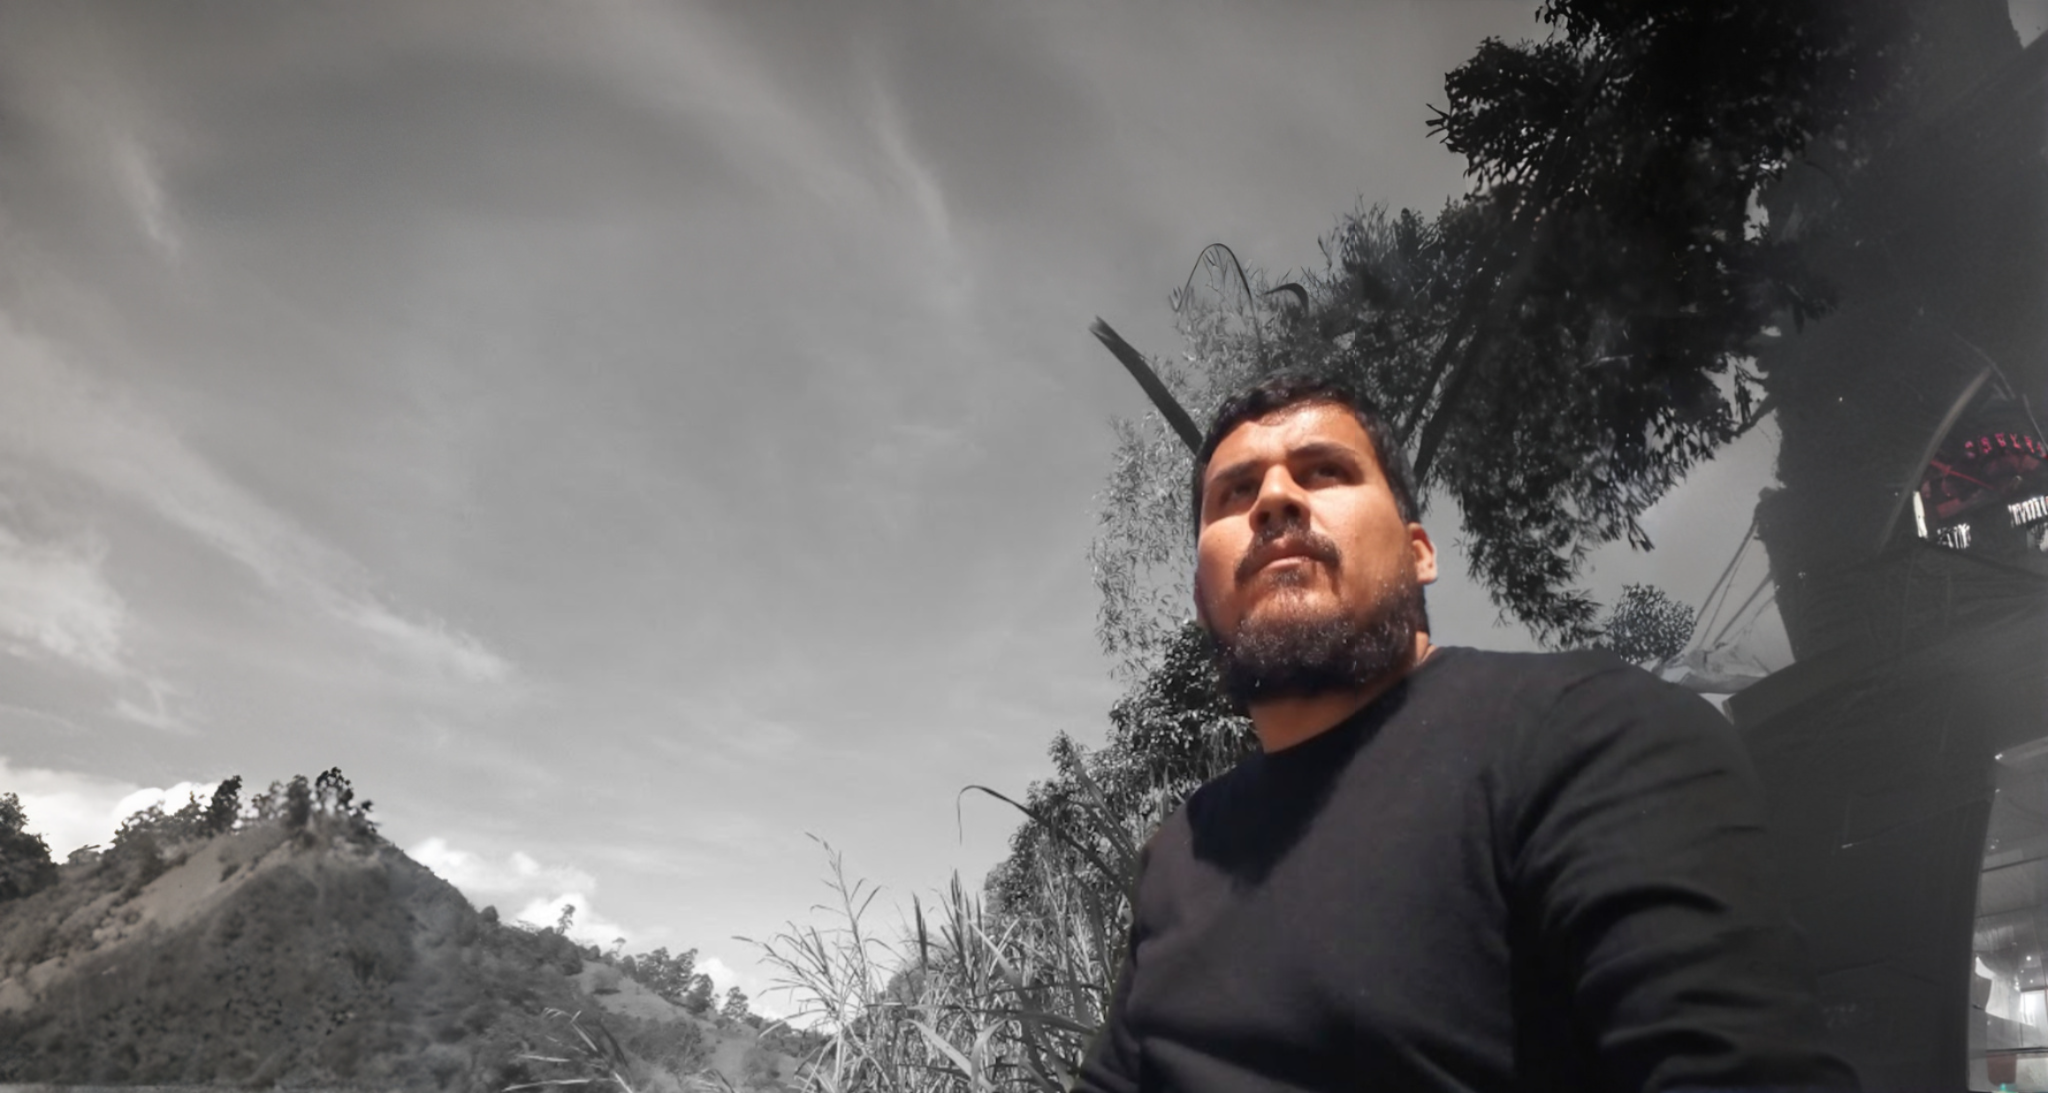
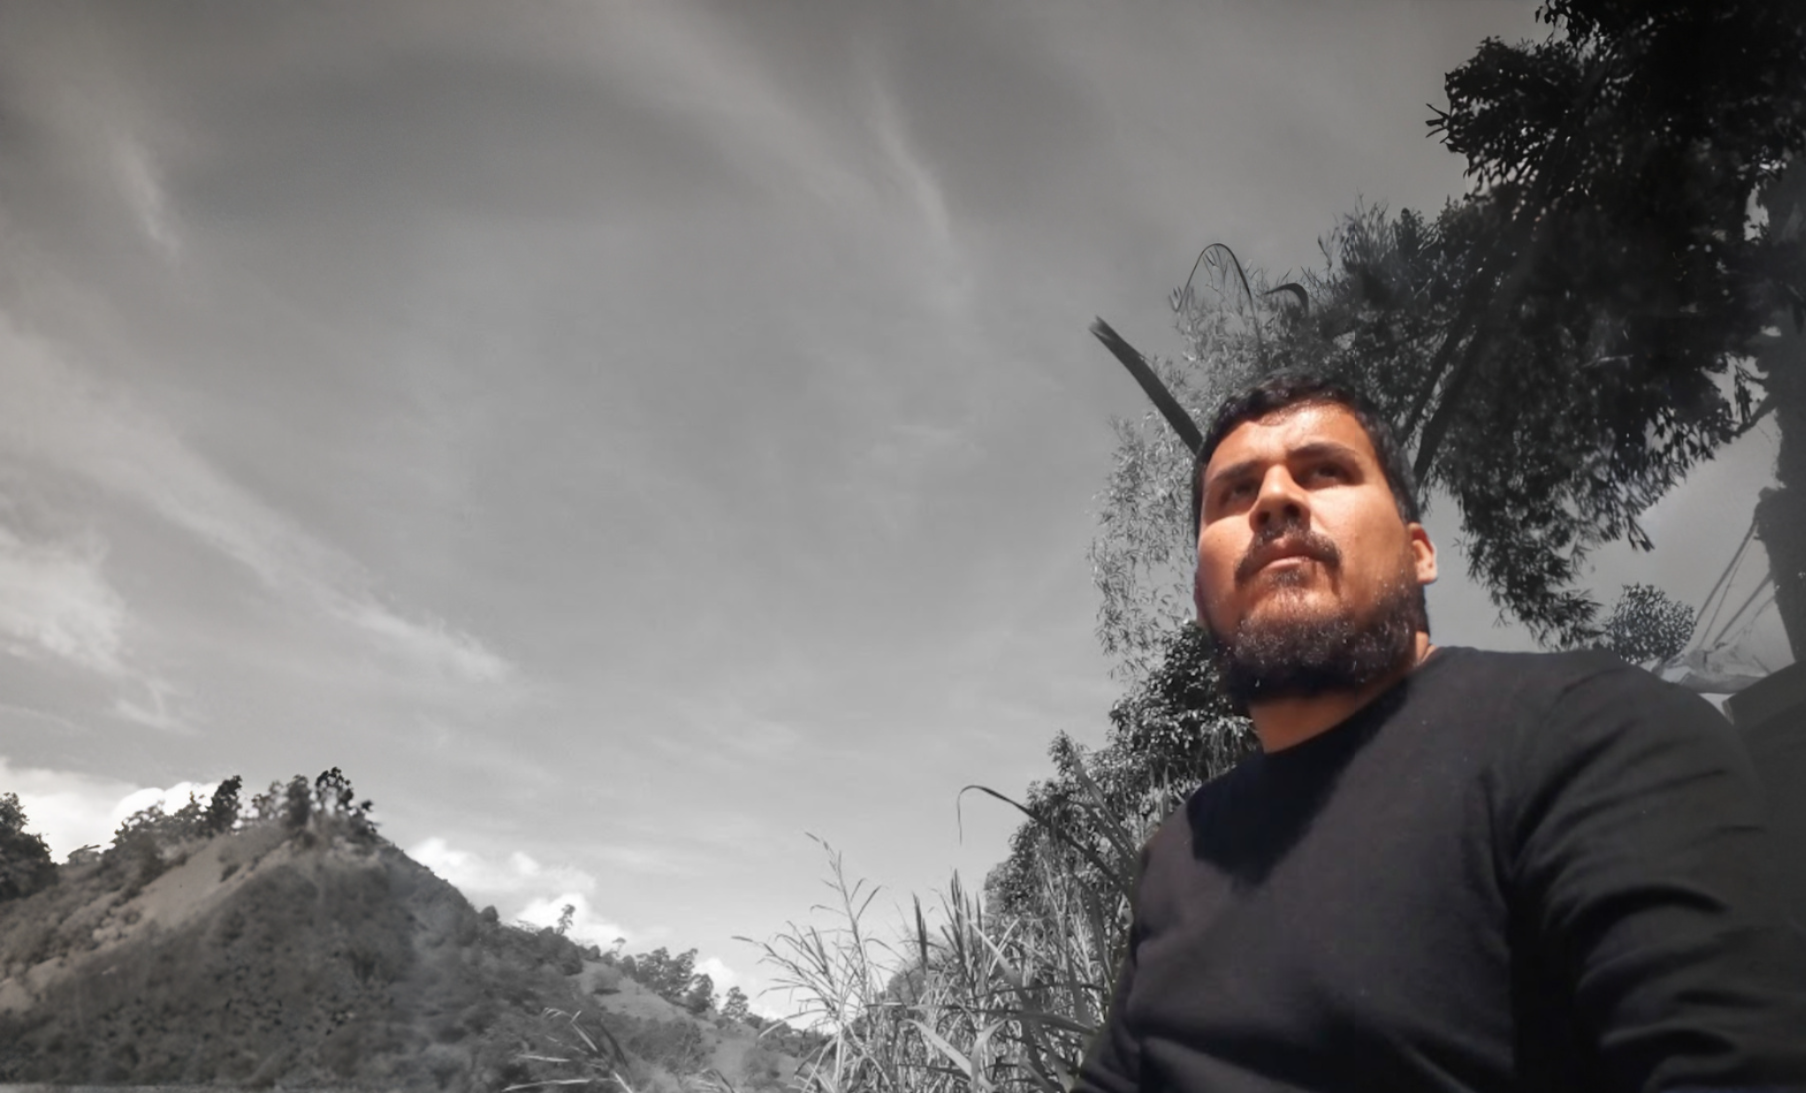
Enhance Hero component styling and layout; update background effects across multiple components
- Updated Hero component to include a new background image with improved layout and text styling.
- Enhanced visual effects in Skills and Social components with backdrop filters and semi-transparent backgrounds.
- Adjusted base styles for a consistent background across the application.

diff --git a/src/components/Hero/Hero.scss b/src/components/Hero/Hero.scss
@@ -2,42 +2,66 @@
 
 .hero {
   min-height: 100vh;
+  position: relative;
   display: flex;
   align-items: center;
-  padding: 2rem;
-  position: relative;
   overflow: hidden;
 
-  &::before {
-    content: "";
+  &-background {
     position: absolute;
     top: 0;
     left: 0;
-    right: 0;
-    bottom: 0;
-    background: linear-gradient(45deg, $color-accent-transparent, transparent);
-    z-index: -1;
+    width: 100%;
+    height: 100%;
+    z-index: 1;
+
+    &::after {
+      content: '';
+      position: absolute;
+      top: 0;
+      left: 0;
+      width: 100%;
+      height: 100%;
+      background: linear-gradient(
+        90deg,
+        rgba($color-background, 0.9) 0%,
+        rgba($color-background, 0.7) 50%,
+        rgba($color-background, 0.4) 100%
+      );
+    }
+
+    img {
+      width: 100%;
+      height: 100%;
+      object-fit: cover;
+    }
   }
 
   &-content {
-    max-width: 800px;
+    position: relative;
+    z-index: 2;
+    max-width: $container-max-width;
     margin: 0 auto;
-    padding: 0 1rem;
-    display: flex;
-    flex-direction: column;
-    align-items: center;
-    gap: 2rem;
+    padding: 4rem 2rem;
+    text-align: left;
+    width: 100%;
 
     h1 {
-      font-size: clamp(2rem, 5vw, 3rem);
+      font-size: clamp(2.5rem, 6vw, 4rem);
       margin-bottom: 2rem;
       line-height: 1.2;
+      color: $color-text;
+      text-shadow: 2px 2px 4px rgba(0, 0, 0, 0.5);
+      max-width: 60%;
     }
 
     p {
       font-size: clamp(1rem, 3vw, 1.2rem);
       line-height: 1.6;
       margin-bottom: 2rem;
+      color: $color-text;
+      text-shadow: 1px 1px 2px rgba(0, 0, 0, 0.5);
+      max-width: 50%;
     }
   }
 }
@@ -59,15 +83,35 @@
   font-size: 1.1rem;
   cursor: pointer;
   transition: all 0.3s;
+  text-shadow: 1px 1px 2px rgba(0, 0, 0, 0.5);
 
   &:hover {
     background: $color-accent;
     color: $color-background;
+    text-shadow: none;
   }
 }
 
 @media (max-width: $breakpoint-mobile) {
-  .hero-content {
-    text-align: center;
+  .hero {
+    &-content {
+      text-align: center;
+      padding: 2rem 1rem;
+
+      h1, p {
+        max-width: 100%;
+      }
+    }
+
+    &-background {
+      &::after {
+        background: linear-gradient(
+          180deg,
+          rgba($color-background, 0.9) 0%,
+          rgba($color-background, 0.7) 50%,
+          rgba($color-background, 0.4) 100%
+        );
+      }
+    }
   }
 } 

diff --git a/src/components/Hero/Hero.tsx b/src/components/Hero/Hero.tsx
@@ -8,8 +8,10 @@ interface HeroProps {
 export const Hero = ({ onCVClick }: HeroProps) => {
   return (
     <section id="hero" className="hero">
+      <div className="hero-background">
+        <img src={introImage} alt="Banner" />
+      </div>
       <div className="hero-content">
-        <img src={introImage} alt="Profile" className="profile-image" />
         <h1>SOFTWARE<br />ENGINEER & TECH<br />GEEK</h1>
         <p>
           I'm a passionate system engineer with over a decade of experience in backend development, 

diff --git a/src/components/Skills/Skills.scss b/src/components/Skills/Skills.scss
@@ -2,7 +2,8 @@
 
 .skills {
   padding: 4rem 2rem;
-  background: $color-background;
+  background: rgba($color-background, 0.7);
+  backdrop-filter: blur(10px);
 
   h2 {
     text-align: center;
@@ -25,6 +26,7 @@
   padding: 2rem;
   border-radius: 8px;
   transition: transform 0.3s;
+  backdrop-filter: blur(5px);
 
   &:hover {
     transform: translateY(-5px);

diff --git a/src/styles/_base.scss b/src/styles/_base.scss
@@ -37,5 +37,6 @@ main {
   padding: 2rem;
   text-align: center;
   margin-top: auto;
-  background: $color-card;
+  background: rgba($color-background, 0.7);
+  backdrop-filter: blur(10px);
 } 

diff --git a/src/components/Social/Social.scss b/src/components/Social/Social.scss
@@ -3,6 +3,8 @@
 .social {
   padding: 4rem 2rem;
   text-align: center;
+  background: rgba($color-background, 0.7);
+  backdrop-filter: blur(10px);
 
   h2 {
     margin-bottom: 2rem;
